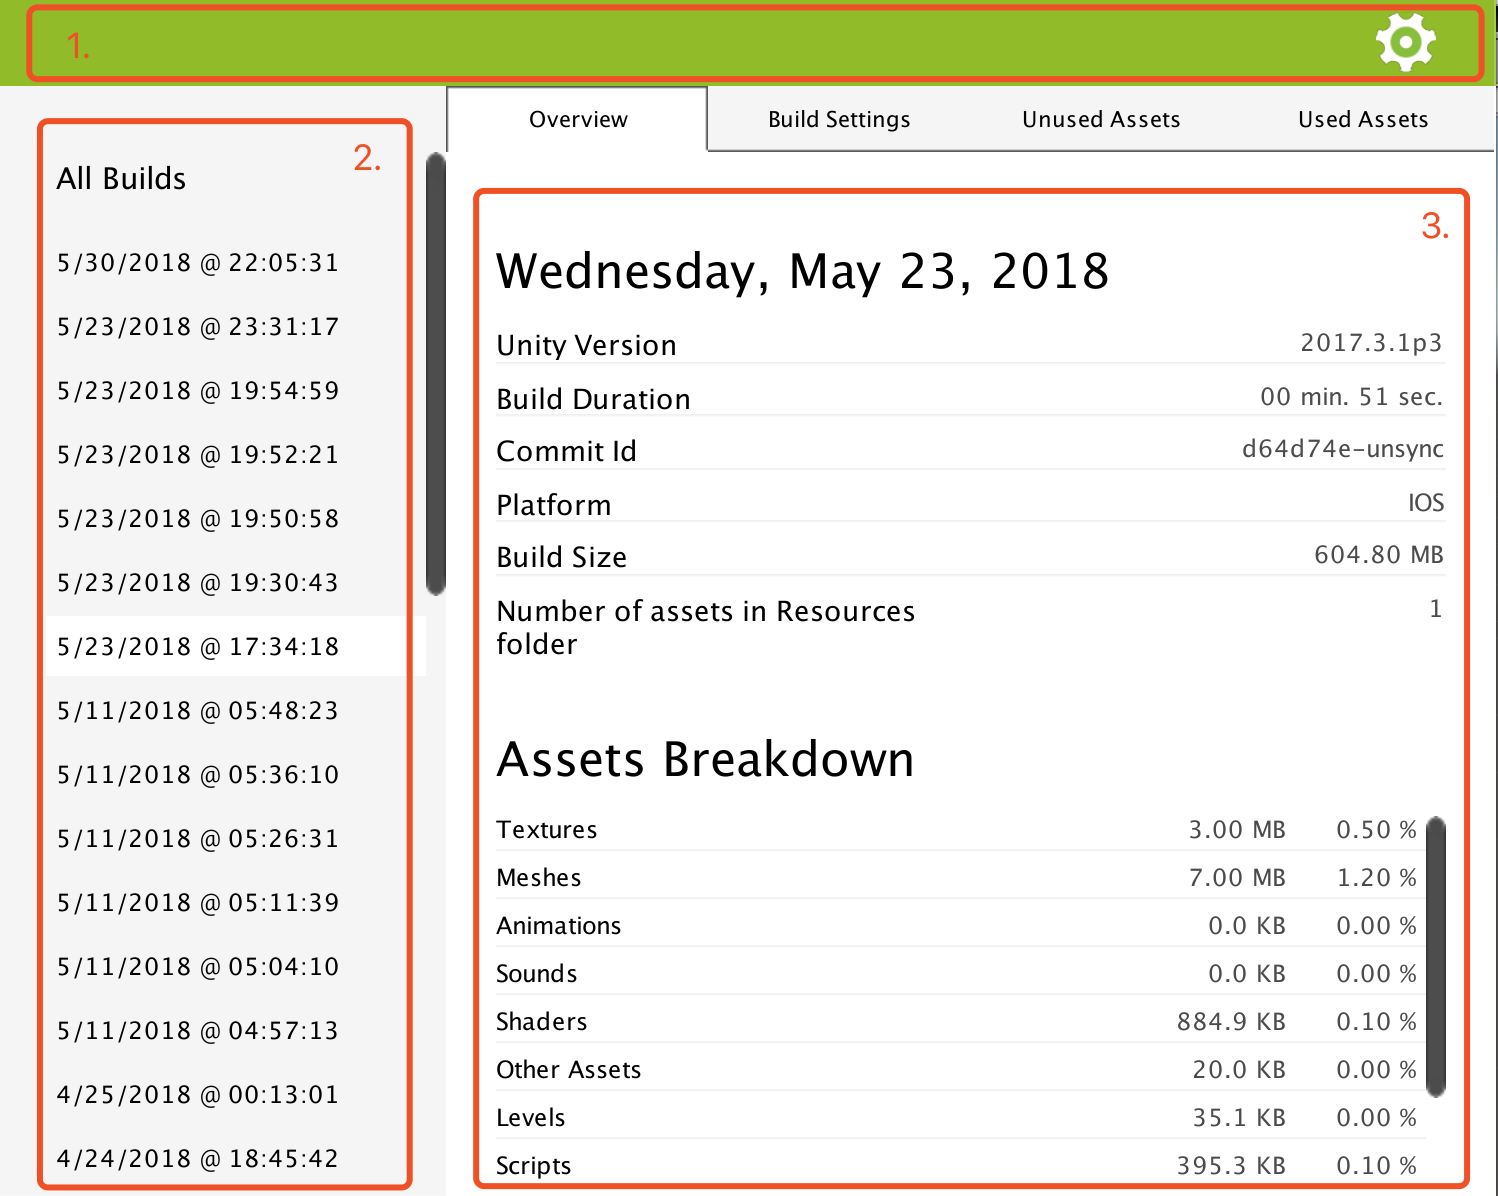
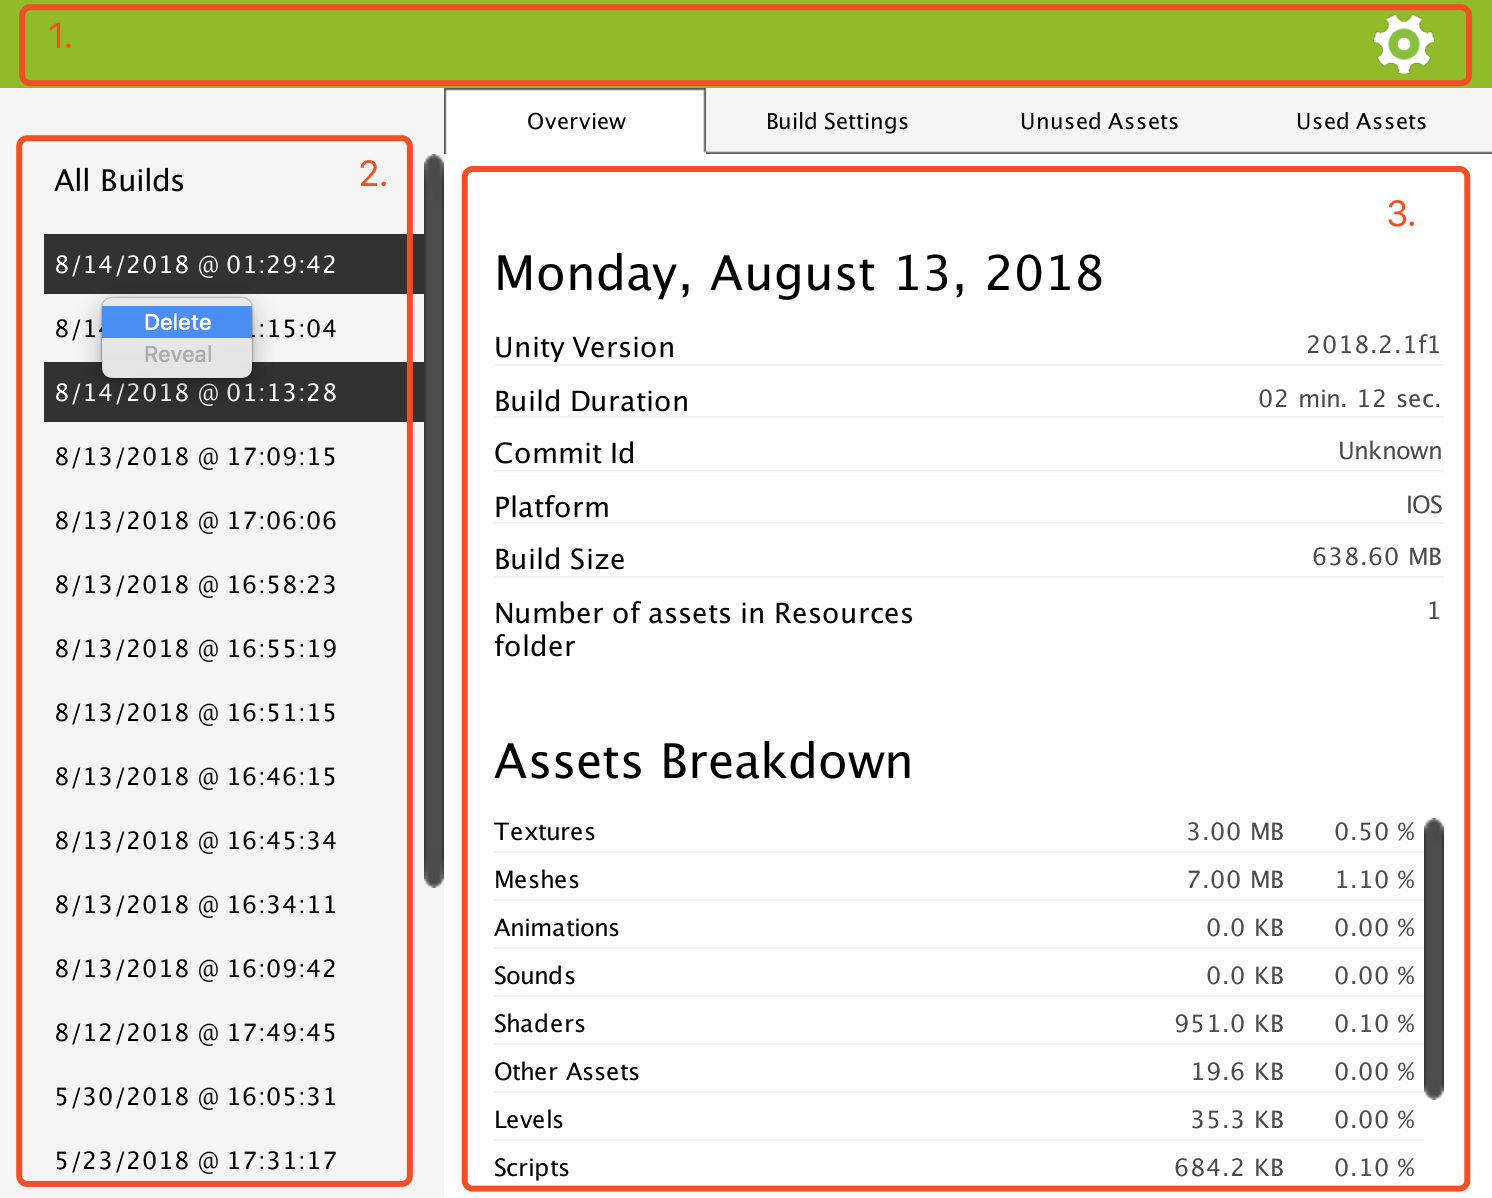
Update doc for version 2018.1

Changed region(s): [[0.0, 0.0, 1.0, 1.0], [0.7708, 0.6806, 0.8633, 0.99], [0.37, 0.7734, 0.4008, 0.8043]]

diff --git a/sphinx/source/conf.py b/sphinx/source/conf.py
@@ -53,9 +53,9 @@ author = u'Well Fired Development'
 # built documents.
 #
 # The short X.Y version.
-version = u'2018.0.x'
+version = u'2018.1'
 # The full version, including alpha/beta/rc tags.
-release = u'2018.0.x'
+release = u'2018.1'
 
 # The language for content autogenerated by Sphinx. Refer to documentation
 # for a list of supported languages.

diff --git a/sphinx/source/ui-overview/front-page.rst b/sphinx/source/ui-overview/front-page.rst
@@ -7,6 +7,8 @@ It is divided in three parts :
 
 1. The top navigation bar that gives you access to the :ref:`doc_ui-overview_settings-page`.
 2. The left panel listing the different build reports based on the time it was generated.
+  .. tip:: You can right click on one of them to display a contextual menu. You can either delete it, or reveal the location of the report.
+      Clicking on **Ctrl/Command** while right clicking allows you to select several reports for deletion.
 3. The central view that displays the build report you selected on the left, or the settings page.
 
 .. image:: images/main-page/main-page.png

diff --git a/sphinx/source/ui-overview/build-report-panels/build-report-assets.rst b/sphinx/source/ui-overview/build-report-panels/build-report-assets.rst
@@ -3,7 +3,9 @@
 Used and Unused Assets
 ======================
 
-These two panels give you a detailed list of the assets included or not in your build. 
+These two panels give you a detailed list of the assets included or not in your build.
+
+.. tip:: You can click on any asset. If the asset is located in your project **Assets** folder, the asset will be selected in your project panel.
 
 .. image:: images/build-report-assets/assets.png
 
